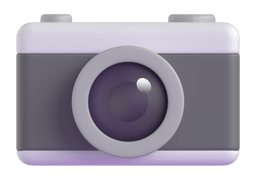
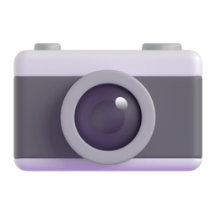
added product list css code

diff --git a/style.css b/style.css
@@ -9,10 +9,10 @@
     --color-item-background: #FFFFFF;
     --color-footer-background: #14213D;
     --color-border: #E5E7EB;
-    --color-background-picture1: #E6F6FD;
-    --color-background-picture2: #FEF4D3;
-    --color-background-picture3: #E6EAFF;
-    --shadow: 0px 0px 5px 1px rgba(59, 59, 59, 0.05);
+    --color-background-picture1: #ecfcff;
+    --color-background-picture2: #fff9e4;
+    --color-background-picture3: #eeeeff;
+    --shadow: 0px 0px 5px 1px rgba(77, 77, 77, 0.05);
 }
 
 *{
@@ -25,6 +25,8 @@ body{
     flex-direction: column;
     background-color: var(--color-body-background);
     position: relative;
+    min-width: 660px;
+    overflow: auto;
 }
 
 .header{
@@ -142,6 +144,80 @@ body{
     font-size: 16px;
 }
 
+.products__list{
+    display: grid;
+    grid-template-columns: repeat(auto-fit, minmax(250px, 1fr));
+    gap: 16px;
+}
+
+.product {
+    display: flex;
+    flex-direction: column;
+    min-width: 0;
+    overflow: hidden;
+    background-color: var(--color-item-background);
+    border: 1px solid var(--color-border);
+    border-radius: 16px;
+    box-shadow: var(--shadow);
+    height: fit-content;
+}
+.product__image{
+    display: flex;
+    justify-content: center;
+    align-items: center;
+    width: 100%;
+    height: 170px;
+}
+.product__image img{
+    width: 90px;
+    height: 90px;
+    
+}
+.product__info{
+    flex-grow: 1;
+    display: flex;
+    flex-direction: column;
+    justify-content: space-between;
+    margin: 15px;
+    position: relative;
+    row-gap: 13px;
+    
+}
+.product__name {
+    font-size: 14px;
+}
+.product__price{
+    font-size: 16px;
+    font-weight: 700;
+    color: var(--color-main-text);
+}
+.product__score{
+    position: absolute;
+    left: 0;
+    bottom: 0;
+    font-size: 14px;
+    color: var(--color-score);
+}
+
+.product__badge {
+    width: 70px;
+    padding: 5px;
+    border-radius: 20px;
+    background-color: var(--color-body-green);
+    color: var(--color-main-green);
+    font-size: 11px;
+    font-weight: 600;
+    text-align: center;
+}
+.headphone, .speaker{
+    background-color: var(--color-background-picture1);
+}
+.watch, .keyboard{
+    background-color: var(--color-background-picture2);
+}
+.camera, .mug{
+    background-color: var(--color-background-picture3);
+}
 .products__toolbar{
     display: flex;
     justify-content: space-between;
@@ -150,6 +226,7 @@ body{
 
 .filter {
     width: 265px;
+    min-width: 265px;
     padding: 20px;
     background-color: var(--color-item-background);
     border: 1px solid var(--color-border);

diff --git a/index.html b/index.html
@@ -58,9 +58,9 @@
                 </div>
 
                 <div class="products__list">
-                    <article class="product">
+                    <article class="product ">
 
-                        <div class="product__image">
+                        <div class="product__image headphone">
                             <img src="picture/headphone.png" alt="Wireless headphones">
                         </div>
 
@@ -89,7 +89,7 @@
 
                     <article class="product">
 
-                        <div class="product__image">
+                        <div class="product__image watch">
                             <img src="picture/watch.png" alt="smart watch">
                         </div>
 
@@ -118,7 +118,7 @@
 
                     <article class="product">
 
-                        <div class="product__image">
+                        <div class="product__image camera">
                             <img src="picture/camera.png" alt="Instant camera">
                         </div>
 
@@ -147,7 +147,7 @@
 
                     <article class="product">
 
-                        <div class="product__image">
+                        <div class="product__image keyboard">
                             <img src="picture/keyboard.png" alt="Mechanical keyboard">
                         </div>
 
@@ -172,7 +172,7 @@
 
                     <article class="product">
 
-                        <div class="product__image">
+                        <div class="product__image speaker">
                             <img src="picture/speaker.png" alt="Portable speaker">
                         </div>
 
@@ -197,7 +197,7 @@
 
                     <article class="product">
 
-                        <div class="product__image">
+                        <div class="product__image mug">
                             <img src="picture/bottle.png" alt="Stainless steel travel mug">
                         </div>
 
